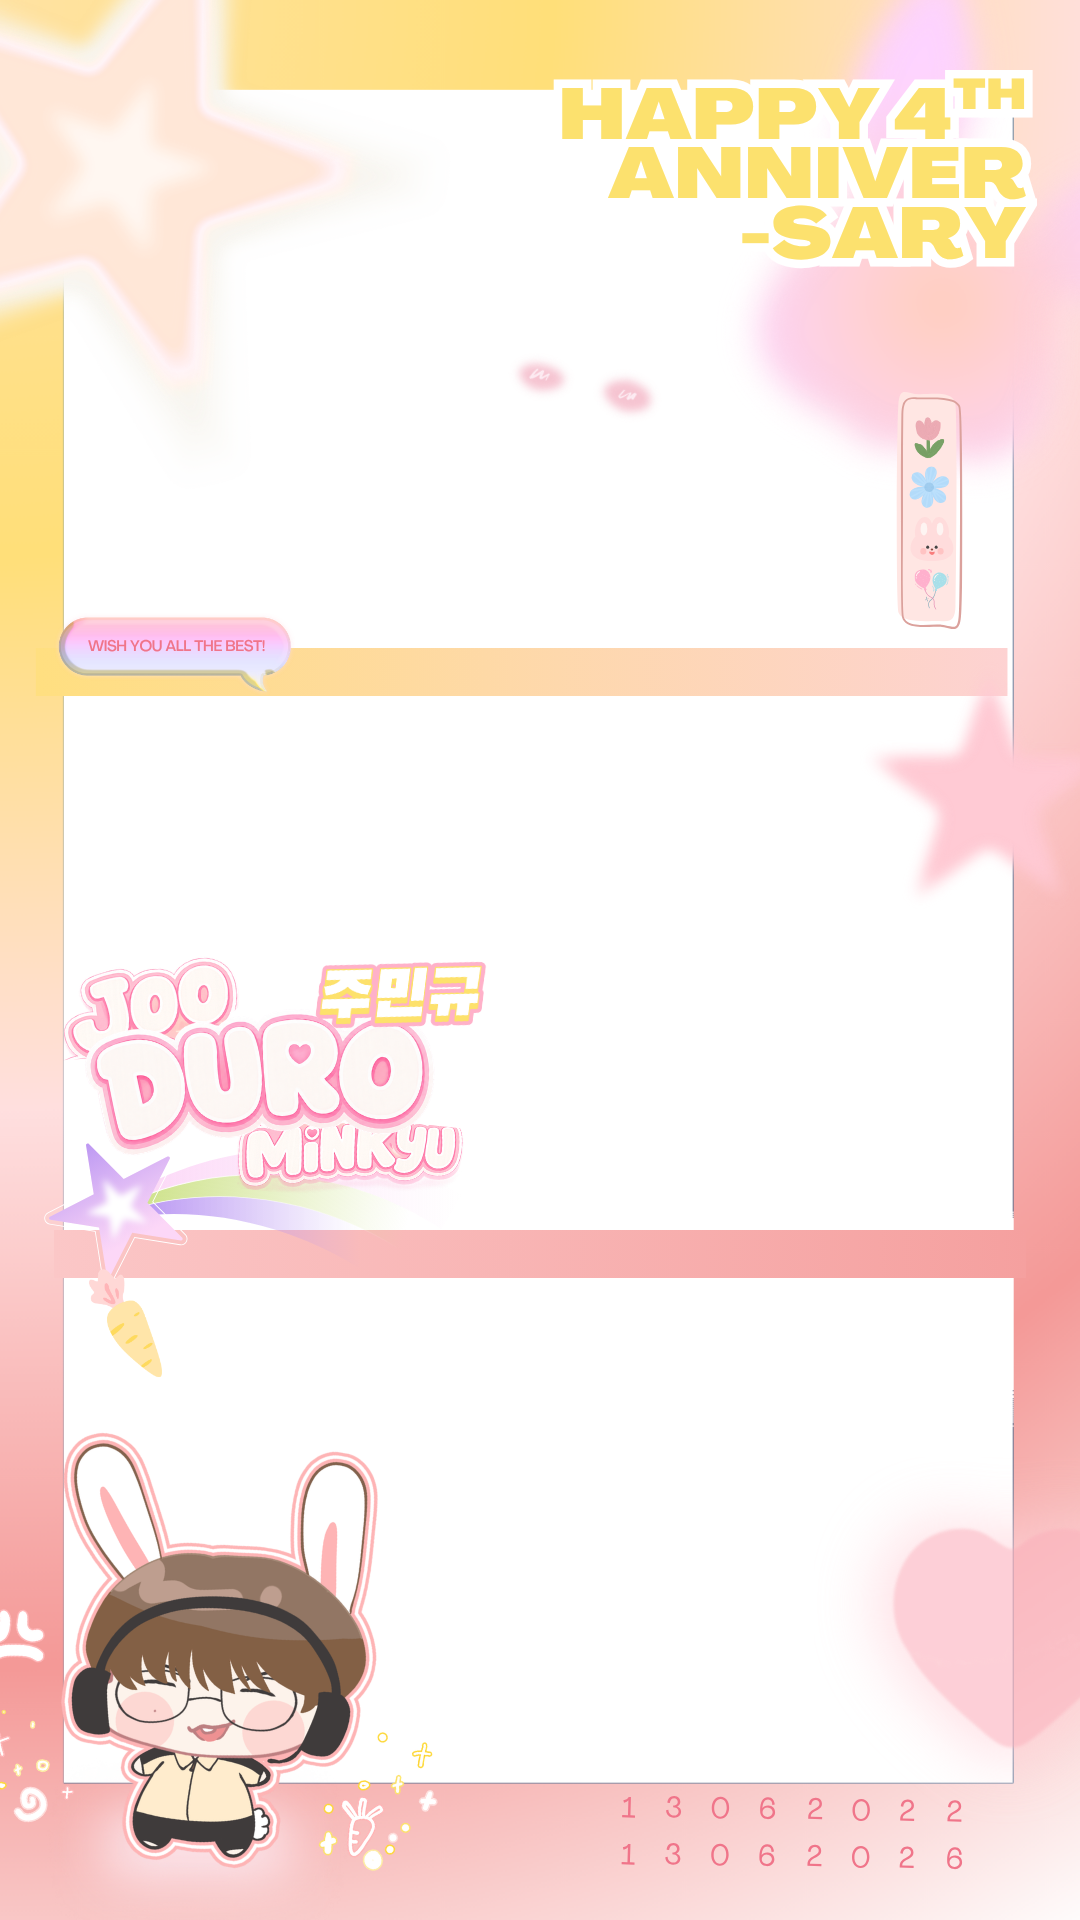
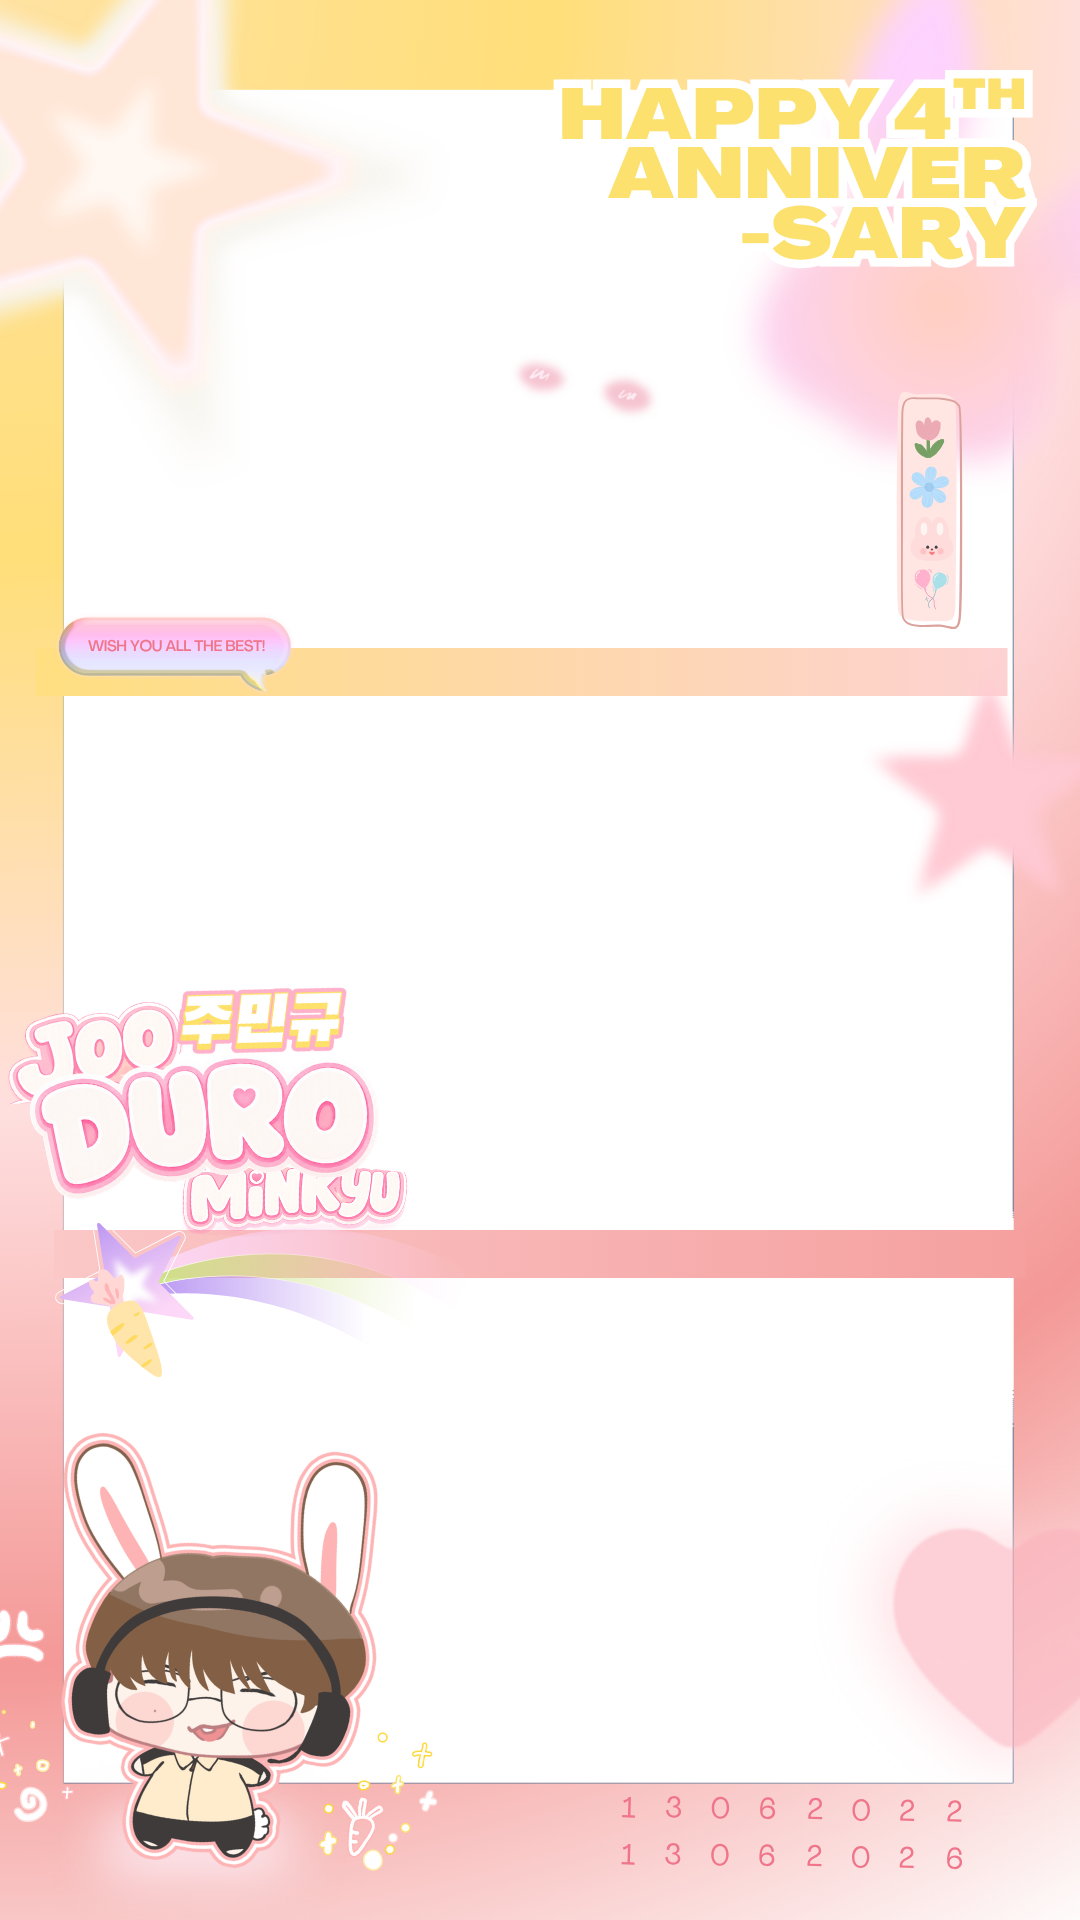
Add files via upload

Changed region(s): [[0.0, 0.5, 0.4583, 0.6875]]

diff --git a/index.html b/index.html
@@ -54,6 +54,11 @@
   .cs-link:hover{transform:translateY(-3px);box-shadow:0 12px 24px rgba(252,165,165,.6);}
 
   footer{text-align:center;padding:30px 20px 50px;color:var(--ink);font-size:.85rem;}
+  /* chuyển tiếp sang pray */
+  .to-pray{padding:20px 0 40px;}
+  .pray-card{max-width:560px;margin:0 auto;background:linear-gradient(150deg,var(--yellow-cream),var(--pink-soft));border-radius:var(--r-lg);box-shadow:var(--soft);padding:36px 28px;text-align:center;}
+  .pray-emoji{font-size:2rem;margin-bottom:10px;}
+  .pray-text{font-family:'Baloo 2';font-weight:800;font-size:1.4rem;color:var(--ink-deep);margin-bottom:18px;}
   /* ===== MAKER ===== */
   .maker-card{max-width:560px;}
   .frame-pick{display:flex;gap:12px;justify-content:center;flex-wrap:wrap;margin:18px 0 22px;}
@@ -83,6 +88,13 @@
   .share-btn:hover{transform:translateY(-2px);}
   .share-close{margin-top:14px;background:none;border:none;color:var(--ink);font-size:.85rem;cursor:pointer;text-decoration:underline;}
   .share-tip{font-size:.78rem;color:var(--ink);margin-top:12px;line-height:1.5;}
+  .share-divider{display:flex;align-items:center;gap:10px;margin:16px 0 12px;color:var(--ink);font-size:.8rem;}
+  .share-divider::before,.share-divider::after{content:"";flex:1;height:1px;background:var(--pink-soft);}
+  .social-row{display:flex;gap:12px;justify-content:center;}
+  .social-btn{width:50px;height:50px;border-radius:50%;border:2px solid var(--pink-soft);background:var(--cream-white);color:var(--ink-deep);cursor:pointer;transition:.2s;display:inline-flex;align-items:center;justify-content:center;}
+  .social-btn:hover{transform:translateY(-3px);border-color:var(--coral);color:var(--coral);}
+  .social-btn svg{width:22px;height:22px;fill:currentColor;}
+  .copy-ok{font-size:.78rem;color:var(--coral);margin-top:8px;height:16px;}
 
   @media(max-width:760px){
     .hero{grid-template-columns:1fr;gap:24px;text-align:center;}
@@ -131,6 +143,14 @@
       </div>
     </div>
   </section>
+
+  <section class="to-pray">
+    <div class="pray-card">
+      <div class="pray-emoji">🕯🐰💛</div>
+      <p class="pray-text">Cùng chúc Gen.G chiến thắng tại đây nhé</p>
+      <a class="cs-link" href="pray.html">Đến trang cầu nguyện cho Gen.G →</a>
+    </div>
+  </section>
 </div>
 
 <!-- SHARE MODAL -->
@@ -143,6 +163,23 @@
       <button class="share-btn secondary" onclick="systemShare()">📲 Chia sẻ</button>
     </div>
     <p class="share-tip">Tải ảnh về rồi khoe lên Threads / Facebook / Instagram nhé! Trên điện thoại bấm "Chia sẻ" để gửi thẳng 🐰</p>
+
+    <div class="share-divider">hoặc chia sẻ link trang</div>
+    <div class="social-row">
+      <button class="social-btn" title="Facebook" onclick="shareTo('facebook')">
+        <svg viewBox="0 0 24 24"><path d="M22 12a10 10 0 10-11.6 9.9v-7H7.9V12h2.5V9.8c0-2.5 1.5-3.9 3.8-3.9 1.1 0 2.2.2 2.2.2v2.5h-1.3c-1.2 0-1.6.8-1.6 1.6V12h2.8l-.4 2.9h-2.4v7A10 10 0 0022 12z"/></svg>
+      </button>
+      <button class="social-btn" title="Threads" onclick="shareTo('threads')">
+        <svg viewBox="0 0 24 24"><path d="M12.2 21.5c-3 0-5.3-1-6.8-2.9C4 16.9 3.3 14.6 3.2 12v-.1c.1-2.6.8-4.9 2.2-6.6C6.9 3.4 9.2 2.4 12.2 2.4c3 0 5.3 1 6.8 2.9.9 1.1 1.5 2.4 1.8 3.9l-1.9.5c-.5-2.4-2-4.4-4.7-4.4-2.4 0-4 .9-5 2.7-.8 1.4-1 3-1 4.5s.2 3.1 1 4.5c1 1.8 2.6 2.7 5 2.7 2.2 0 3.4-.6 4.3-1.6.6-.7.9-1.6.9-2.4 0-1-.4-1.8-1.1-2.4.3-1.8-.4-3.4-2.6-3.4-1.5 0-2.7.9-2.7 2.3 0 1.3 1 2 2.2 2 .5 0 .9-.1 1.2-.3.2 1-.4 1.6-1.6 1.6-1.8 0-2.7-1.4-2.7-3.2 0-2.3 1.7-3.9 4.3-3.9 3 0 4.6 2 4.5 4.7 0 .2 0 .4-.1.7.7.7 1.1 1.7 1.1 2.9 0 1.4-.5 2.7-1.5 3.7-1.2 1.3-3 2-5.5 2z"/></svg>
+      </button>
+      <button class="social-btn" title="X (Twitter)" onclick="shareTo('x')">
+        <svg viewBox="0 0 24 24"><path d="M18.2 2.3h3.3l-7.2 8.3 8.5 11.1h-6.6l-5.2-6.8-6 6.8H1.7l7.7-8.8L1.3 2.3H8l4.7 6.2 5.5-6.2zm-1.2 17.5h1.8L7.1 4.1H5.2l11.8 15.7z"/></svg>
+      </button>
+      <button class="social-btn" title="Sao chép link" onclick="copyLink()">
+        <svg viewBox="0 0 24 24"><path d="M3.9 12a3.1 3.1 0 013.1-3.1h4V7H7a5 5 0 100 10h4v-1.9H7A3.1 3.1 0 013.9 12zM8 13h8v-2H8v2zm9-6h-4v1.9h4a3.1 3.1 0 010 6.2h-4V17h4a5 5 0 000-10z"/></svg>
+      </button>
+    </div>
+    <p class="copy-ok" id="copyOk"></p>
     <button class="share-close" onclick="closeShare()">Đóng</button>
   </div>
 </div>
@@ -362,6 +399,23 @@
     alert('Trên máy tính, hãy bấm "Tải ảnh" rồi đăng lên mạng xã hội nhé! 🐰');
   }
   document.getElementById('shareOverlay').addEventListener('click', e=>{ if(e.target.id==='shareOverlay') closeShare(); });
+
+  // chia sẻ LINK trang tới mạng xã hội (để ai muốn cũng vào tạo ảnh)
+  const SITE_URL = 'https://durabbit.github.io';
+  const SHARE_TEXT = 'Mình vừa tạo ảnh chúc mừng 4 năm Duro! Bạn cũng thử nhé 🐰🎀 #DURO #GENG';
+  function shareTo(net){
+    const u = encodeURIComponent(SITE_URL);
+    const t = encodeURIComponent(SHARE_TEXT);
+    let url='';
+    if(net==='facebook') url='https://www.facebook.com/sharer/sharer.php?u='+u;
+    else if(net==='threads') url='https://www.threads.net/intent/post?text='+t+'%20'+u;
+    else if(net==='x') url='https://twitter.com/intent/tweet?text='+t+'&url='+u;
+    if(url) window.open(url,'_blank','noopener,width=600,height=600');
+  }
+  function copyLink(){
+    const done=()=>{ const el=document.getElementById('copyOk'); el.textContent='✓ Đã sao chép link!'; setTimeout(()=>el.textContent='',2500); };
+    if(navigator.clipboard){ navigator.clipboard.writeText(SITE_URL).then(done).catch(done); } else done();
+  }
 
   // khởi tạo
   buildStage();
